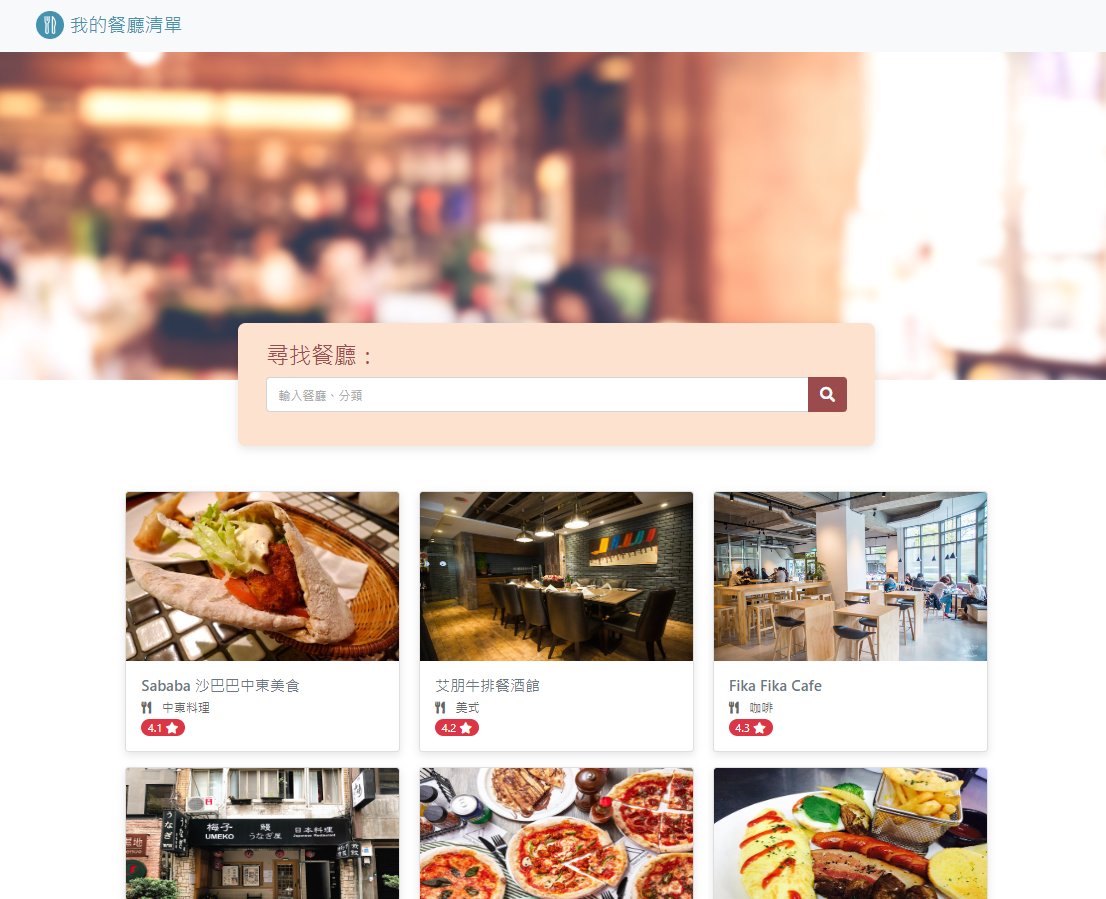
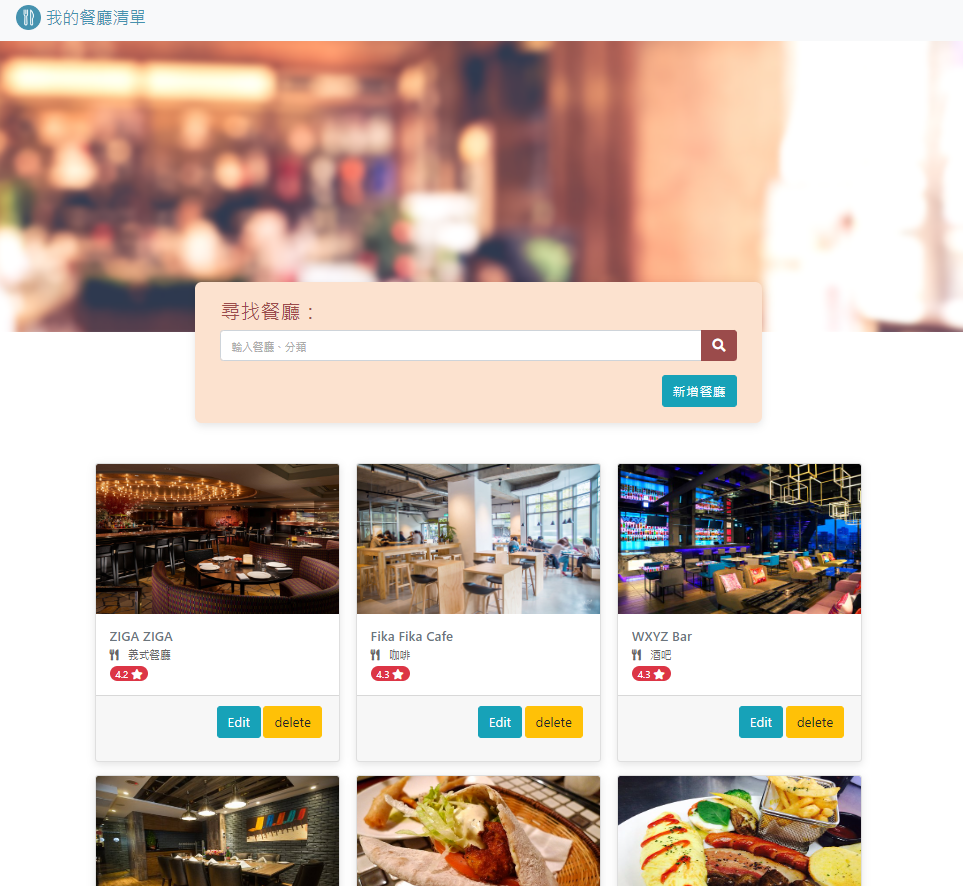
Modify README.md

diff --git a/app.js b/app.js
@@ -102,5 +102,5 @@ app.set("view engine", "handlebars");
 app.use(express.static("public"));
 
 app.listen(port, () => {
-  console.log(`Express is now listening on localhost:3000`);
+  console.log(`Restaurant List is now listening on http://localhost:3000`);
 });

diff --git a/README.md b/README.md
@@ -1,17 +1,21 @@
 # 我的餐廳清單
 
-![Screenshot from index page ](./public/image/screenshotIndex.PNG)
-
 ## 介紹
 
-紀錄屬於自己的餐廳清單，可以瀏覽餐廳、查看詳細資訊、甚至連結到地圖。
+來建立屬於你自己的餐廳清單吧
 
 ### 功能
 
-- 查看所有餐廳
-- 瀏覽餐廳的詳細資訊
-- 連結餐廳的地址到 Google 地圖
-- 搜尋特定餐廳
+- 使用者可以瀏覽所有餐廳
+  ![Screenshot from index page ](./public/image/screenshotIndex.PNG)
+- 使用者可以搜尋特定餐廳
+- 使用者可以新增一家餐廳
+  ![Screenshot from index page ](./public/image/screenshotCreate.PNG)
+- 使用者可以瀏覽一家餐廳的詳細資訊
+  ![Screenshot from index page ](./public/image/screenshotDetail.PNG)
+- 使用者可以修改一家餐廳的資訊
+  ![Screenshot from index page ](./public/image/screenshotEdit.PNG)
+- 使用者可以刪除一家餐廳
 
 ## 開始使用
 
@@ -20,22 +24,37 @@
 3. 在本地開啟之後，透過終端機進入資料夾，輸入：
 
    ```bash
-   npm install
+   npm install // 安裝套件
    ```
 
-4. 安裝完畢後，繼續輸入：
+4. 設定 MongoDB 環境變數
+
+   ```bash
+   set MONGODB_URI="你的MongoDB連線字串" // for Windows cmd
+   export MONGODB_URI="你的MongoDB連線字串" // for bash (MacOS bash terminal and Git bash for Windows)
+   ```
+
+5. 寫入種子資料
+
+   ```bash
+   npm run seed
+   ```
+
+6. 開啟程式
 
    ```bash
    npm run start
    ```
 
-5. 若看見此行訊息則代表順利運行，打開瀏覽器進入到以下網址
+7. 若看見此行訊息則代表順利運行，打開瀏覽器進入到以下網址
 
    ```bash
-   Listening on http://localhost:3000
+   Restaurant List is now listening on http://localhost:3000
    ```
 
-6. 若欲暫停使用
+   請至 http://localhost:3000 開啟網站
+
+8. 若欲中斷伺服器連線，請按
 
    ```bash
    ctrl + c
@@ -45,6 +64,11 @@
 
 - Node.js 16.16.0
 - Express 4.18.1
+- Mongoose 6.6.5
 - Express-Handlebars 3.0.0
 - Bootstrap 4.3.1
 - Font-awesome 5.8.1
+
+## 開發人員
+
+Wei Lin
